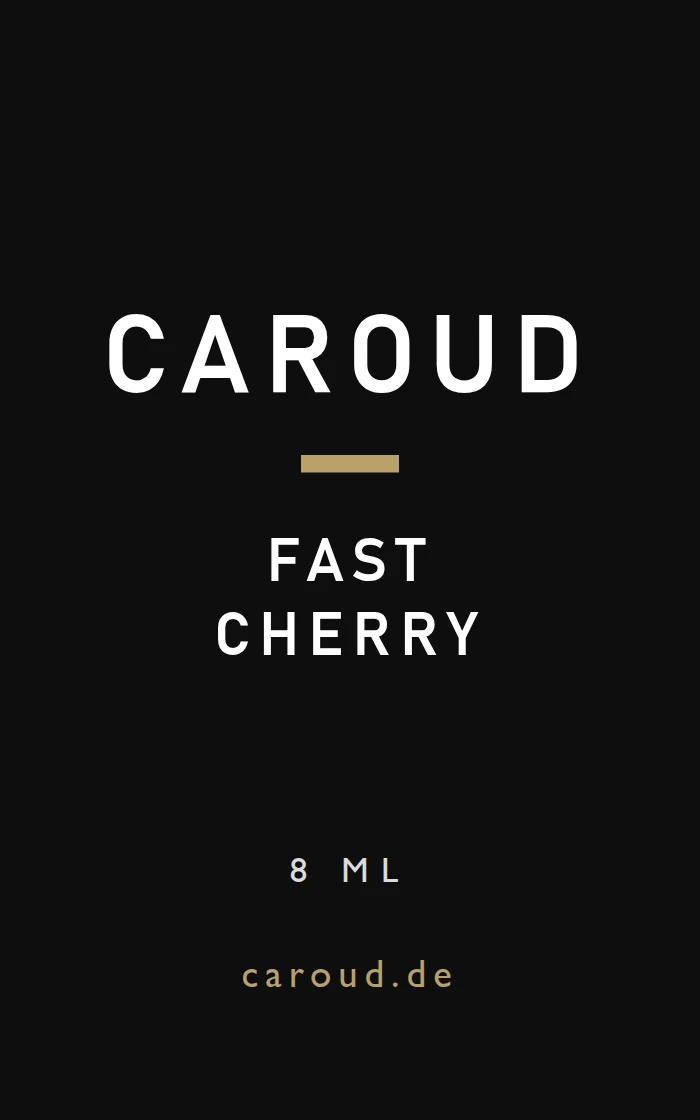
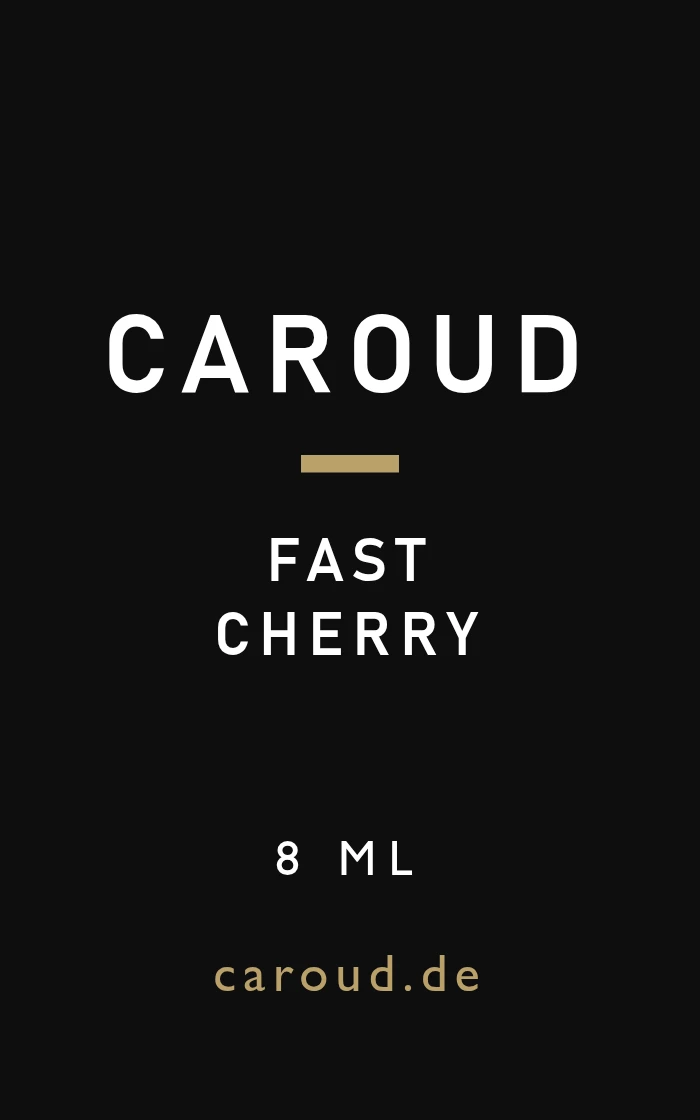
Etiketten: 150 ML / 8 ML und caroud.de groesser und besser lesbar (v51)
Claude-Session: https://claude.ai/code/session_01FWAFBrrQYUhS2XwshSf5J4

Changed region(s): [[0.3, 0.8438, 0.69, 0.9062], [0.48, 0.75, 0.57, 0.8125], [0.39, 0.75, 0.45, 0.7812]]

diff --git a/js/products.js b/js/products.js
@@ -15,7 +15,7 @@
 // Bilder: die gedruckten Etiketten, gerendert aus den Druck-PDFs
 // (img/produkte/<typ>-<duft>.webp). Ohne img zeichnet main.js die Ersatzgrafik.
 // Version an Bild-URLs, damit Browser nach Etikett-Updates nicht alte Bilder aus dem Cache zeigen
-const ASSET_V = "41";
+const ASSET_V = "43";
 
 const CATEGORIES = [
   { name: "Duftsprays", type: "spray", color: "#111111", img: "img/produkte/spray-pacific-cruise.webp?v=" + ASSET_V },
@@ -47,7 +47,7 @@ const SCENTS = [
     bestseller: { spray: true, haenger: true, glas: true, baum: true },
   },
   {
-    key: "erba-carbon", name: "Erba Carbon", color: "#12a19a", familie: "frisch",
+    key: "erba-carbon", name: "Erba Carbon", color: "#2b2b2e", familie: "frisch",
     notes: ["Sizilianische Orange", "Bergamotte", "Mediterrane Früchte", "Weißer Moschus"],
     short: "Saftig und strahlend: sizilianische Orange, Bergamotte und reife Früchte auf weißem Moschus.",
     spray: "Saftig, strahlend, unverwechselbar: sizilianische Orange, Zitrone und kalabrische Bergamotte treffen auf reife mediterrane Früchte. Darunter weißer Moschus, Vanille und Amber, die den Innenraum lange und weich umhüllen.",

diff --git a/index.html b/index.html
@@ -536,7 +536,7 @@
   <!-- Toast -->
   <div class="toast" id="toast" hidden></div>
 
-  <script src="js/products.js?v=49"></script>
-  <script src="js/main.js?v=49"></script>
+  <script src="js/products.js?v=51"></script>
+  <script src="js/main.js?v=51"></script>
 </body>
 </html>
